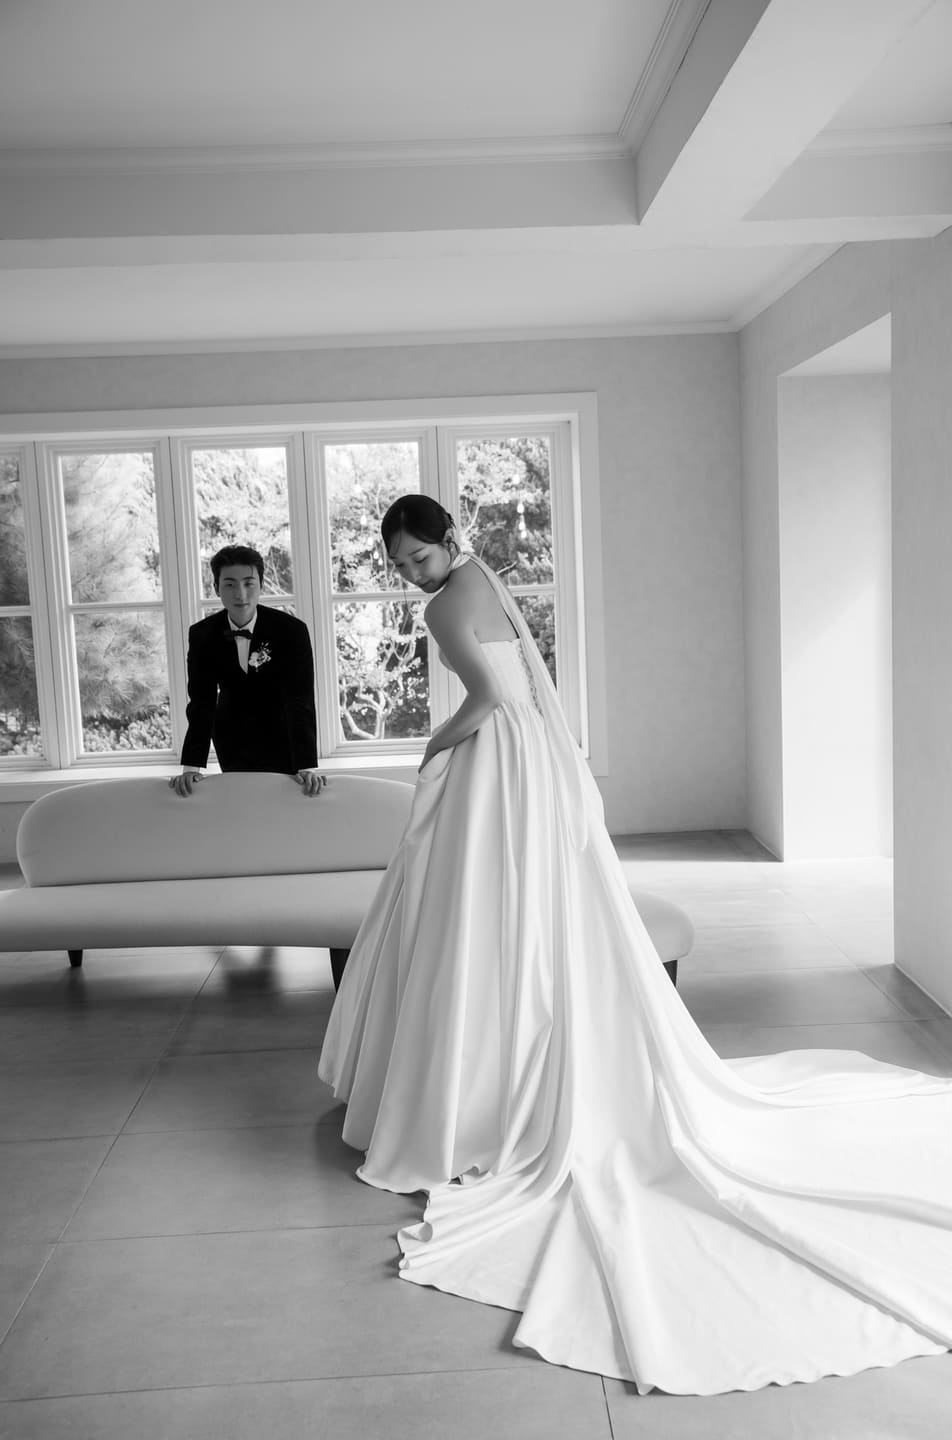
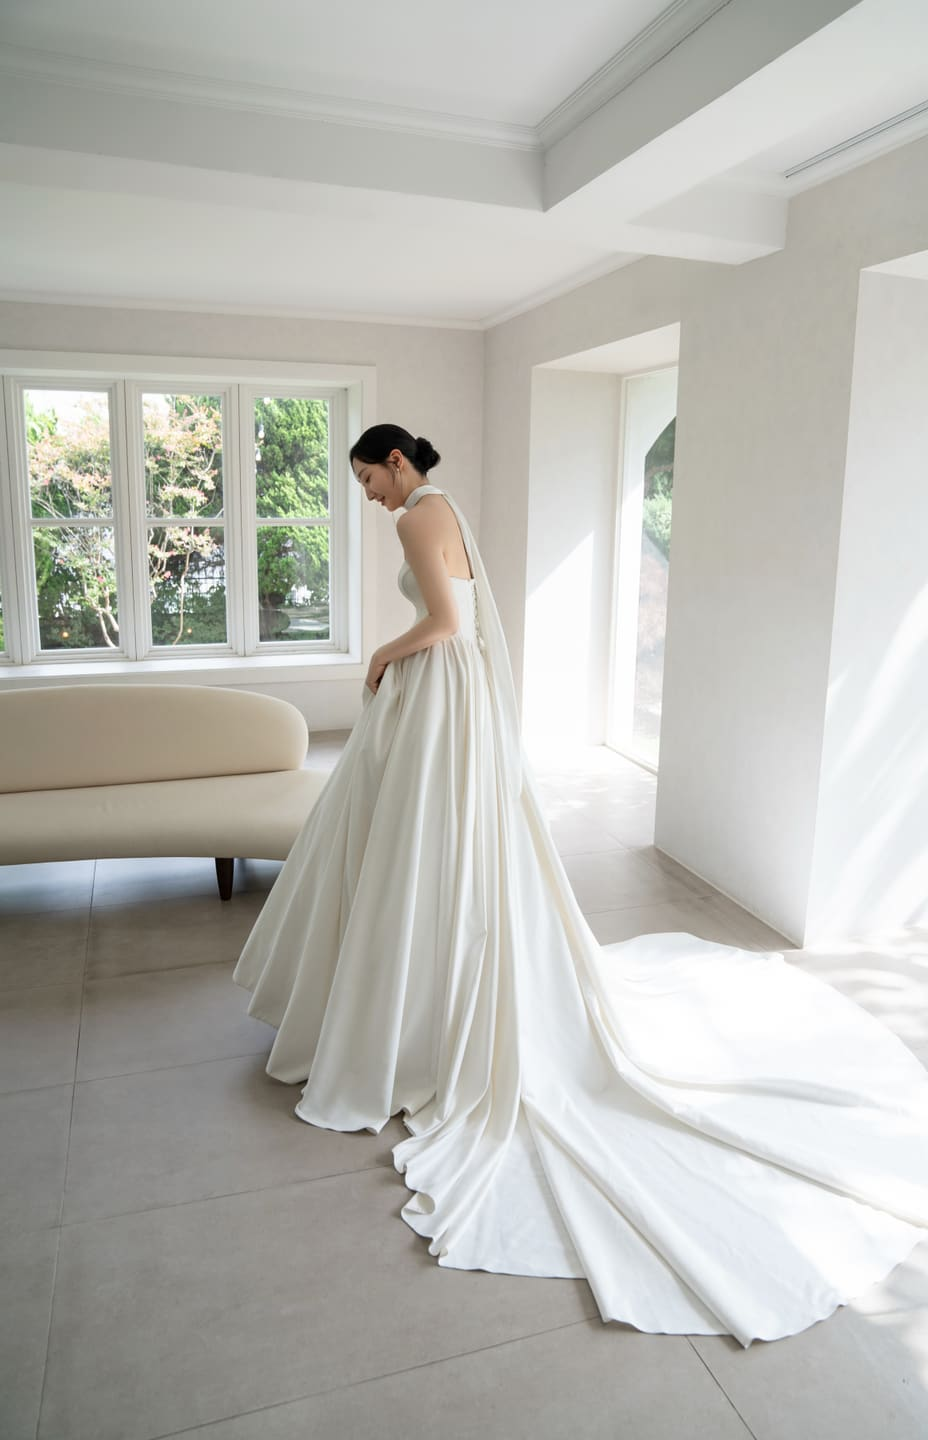
갤러리: 17번 흑백 커플 컷(DSC00940)을 신부 단독 보정본(IMG_8927)으로 교체

diff --git a/index.html b/index.html
@@ -178,7 +178,7 @@
         <button type="button" class="gallery-item"><img src="./assets/img/gallery-14.jpg?v=85481af0" alt="웨딩 사진 14" loading="lazy" decoding="async"></button>
         <button type="button" class="gallery-item"><img src="./assets/img/gallery-15.jpg?v=b68abd9f" alt="웨딩 사진 15" loading="lazy" decoding="async"></button>
         <button type="button" class="gallery-item"><img src="./assets/img/gallery-16.jpg?v=352de6eb" alt="웨딩 사진 16" loading="lazy" decoding="async"></button>
-        <button type="button" class="gallery-item"><img src="./assets/img/gallery-17.jpg?v=5a53266e" alt="웨딩 사진 17" loading="lazy" decoding="async"></button>
+        <button type="button" class="gallery-item"><img src="./assets/img/gallery-17.jpg?v=61e25f27" alt="웨딩 사진 17" loading="lazy" decoding="async"></button>
         <button type="button" class="gallery-item"><img src="./assets/img/gallery-18.jpg?v=f1225597" alt="웨딩 사진 18" loading="lazy" decoding="async"></button>
         <button type="button" class="gallery-item"><img src="./assets/img/gallery-19.jpg?v=6995d4bc" alt="웨딩 사진 19" loading="lazy" decoding="async"></button>
         <button type="button" class="gallery-item"><img src="./assets/img/gallery-20.jpg?v=6eaf9d7b" alt="웨딩 사진 20" loading="lazy" decoding="async"></button>
